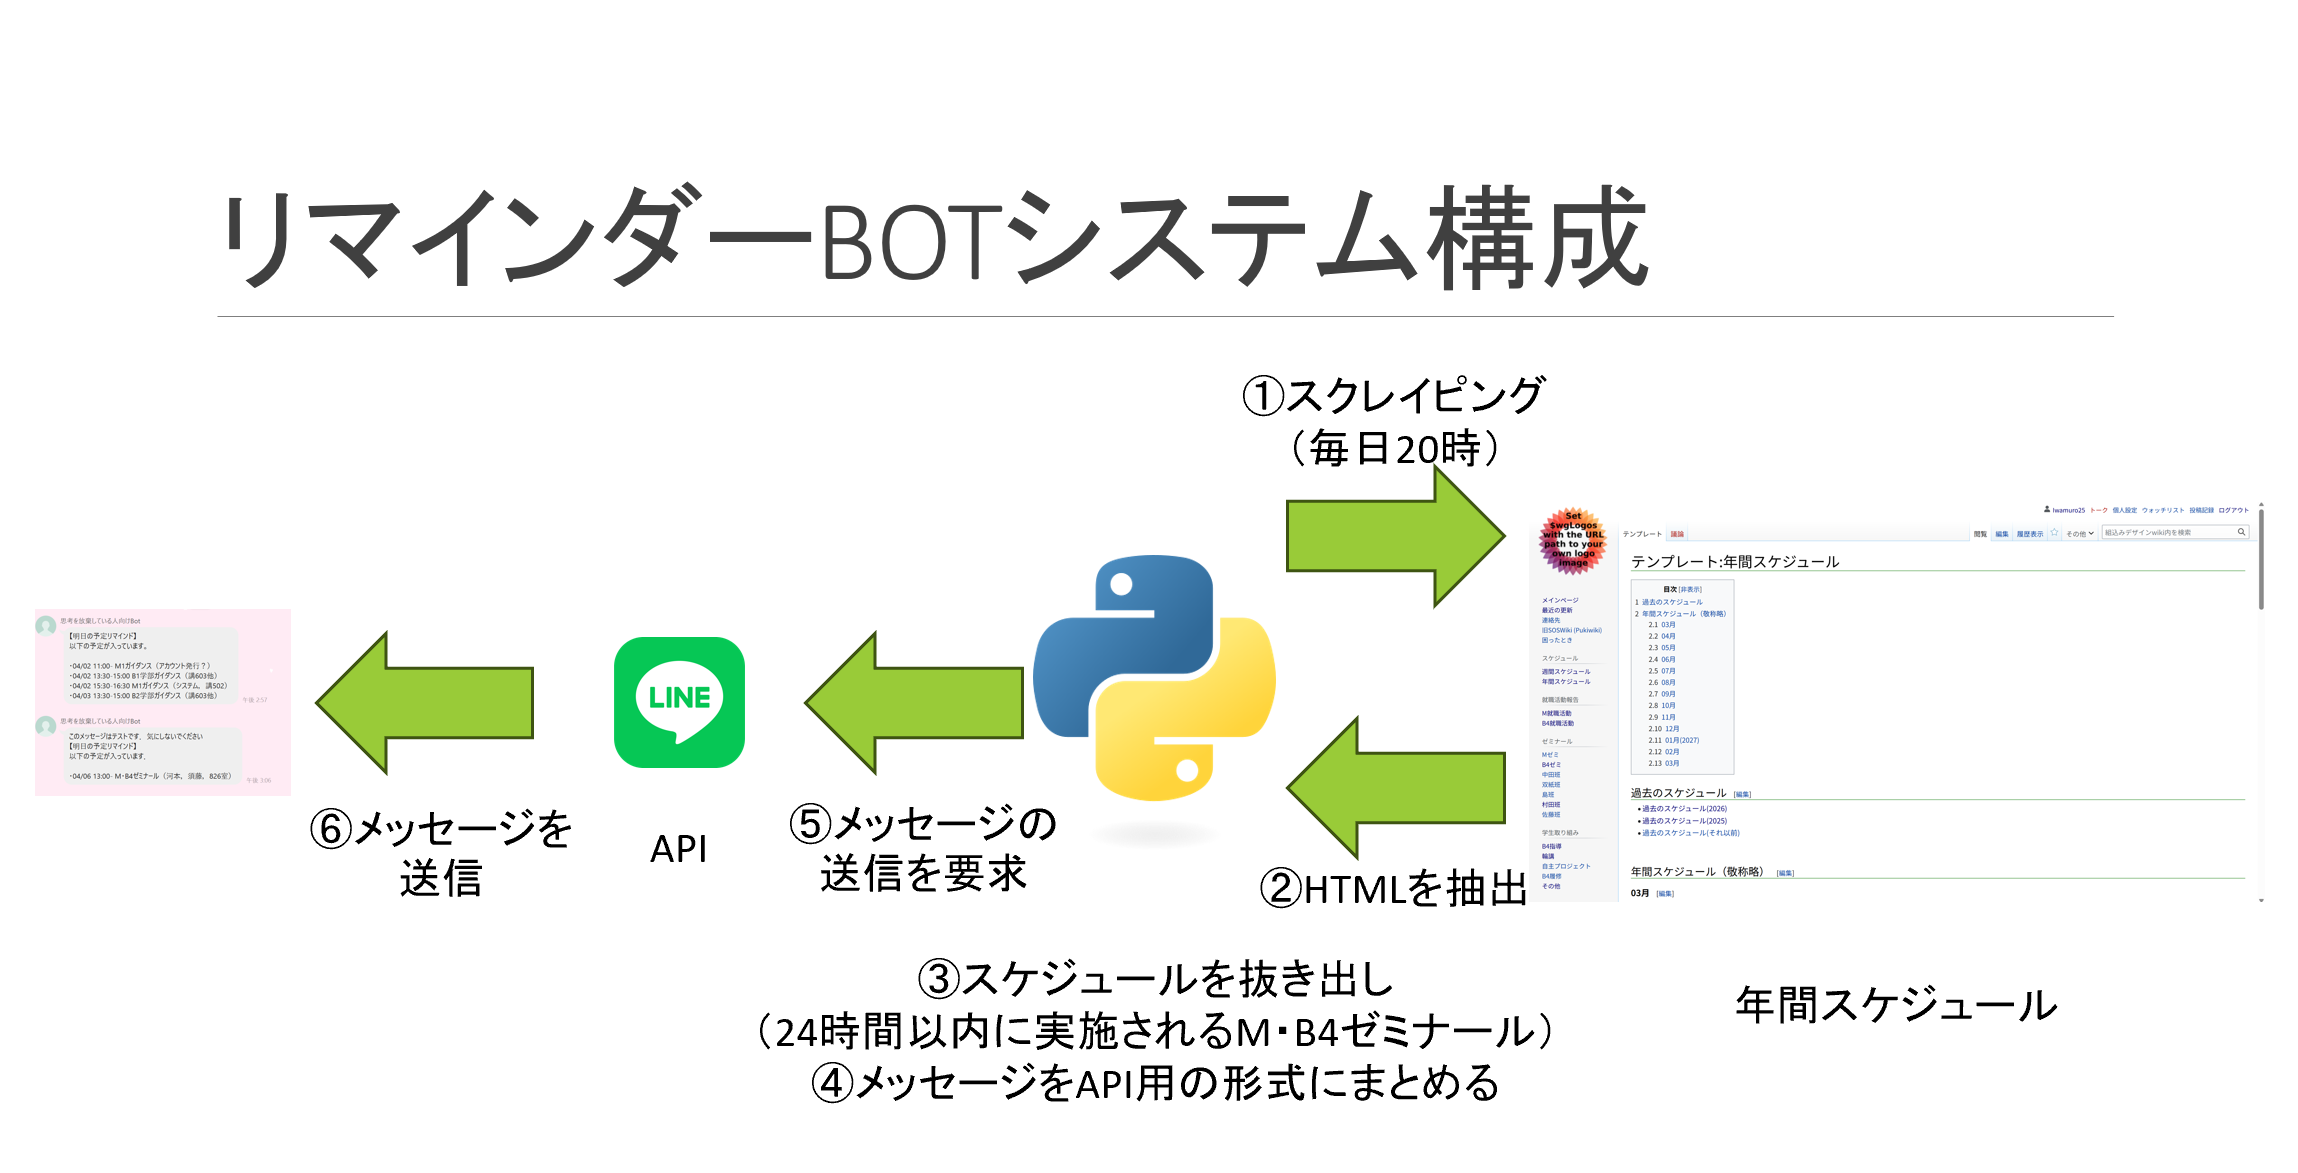
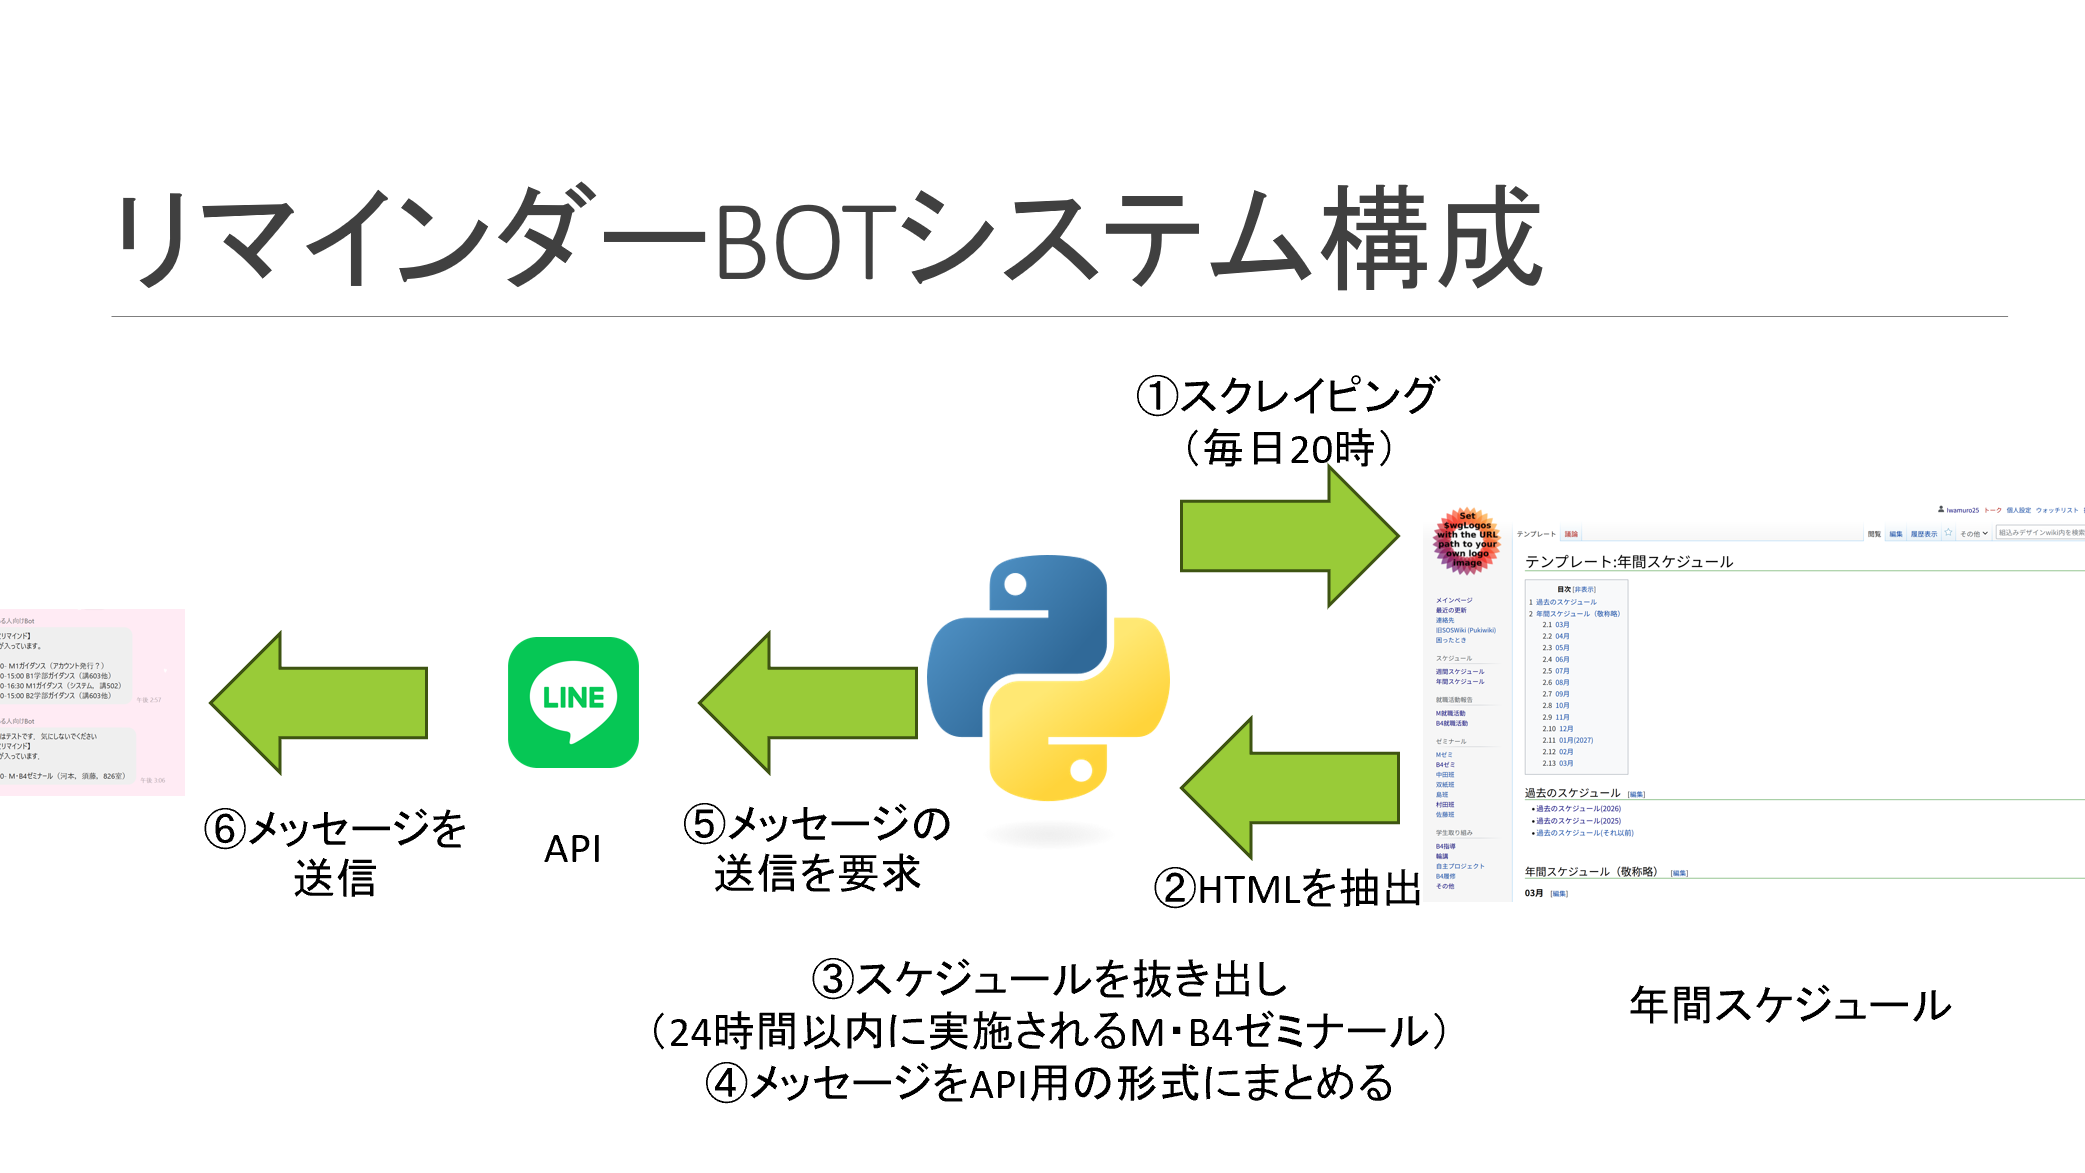
add new image which adjust aspect retio

diff --git a/src/data/siteContent.js b/src/data/siteContent.js
@@ -11,7 +11,7 @@ export const site = {
   hero: {
     eyebrow: 'FRONTEND ENGINEER / ALGORITHM DESIGNER',
     name: '岩室 怜弥',
-    lead: '開発，制作物すべてで心地よい体験を',
+    lead: '開発から制作物すべてで心地よい体験を',
     description: [
       'フロントエンドとアルゴリズム設計で，',
       '様々な課題を解決する体験をつくります．',
@@ -50,7 +50,7 @@ export const projects = [
     title: 'PDF Dark Mode',
     intro: 'PDFを，見やすく美しく',
     description: 'PDFの文字・画像・グラフを判別し，閲覧体験を崩さずダークモードへ変換するChrome拡張機能．',
-    image: '/images/PDFdark0.png',
+    image: '/images/PDFdark.png',
     tags: ['Chrome拡張機能', '画像処理', '最適化アルゴリズム'],
     href: 'https://chromewebstore.google.com/detail/invert-pdf-viewer/klndmcomjnjmcappeiibgklmlhdcihhe?hl=ja',
   },
@@ -58,8 +58,8 @@ export const projects = [
     id: '02',
     title: 'ごみ分別ゲーム',
     intro: '楽しく，学べぶごみ分別',
-    description: '株式会社コーヨー様とごみ問題とリサイクルについて，発信するために作成したゲーム．大学祭では，こどもたちから大好評!!',
-    image: '/images/Ninoshima1.png',
+    description: '株式会社コーヨー様とごみ問題とリサイクルについて，発信するために作成したゲーム．大学祭では，こどもに大人気!!',
+    image: '/images/BunbetuGame.png',
     tags: ['React', 'ウェブデザイン', 'ゲーム設計', 'ごみ問題'],
     href: '',
   },
@@ -68,7 +68,7 @@ export const projects = [
     title: '似島歴史ガイド',
     intro: '似島の記憶を，いつでも体験に',
     description: '広島の歴史では，失われた命が数えられます．一方で，救われた命も多くあります．検疫所によって，多くの命を救った似島の歴史を伝え，観光ガイドを補助するサイトを現地ガイドの方々と再構成しました．',
-    image: '/images/Ninoshima1.png',
+    image: '/images/Ninoshima.png',
     tags: ['ウェブデザイン', '地図', 'ガイド補助'],
     href: 'https://hiroshima-cu.ninoshima.org/index.html',
   },

diff --git a/src/styles/work.css b/src/styles/work.css
@@ -89,6 +89,7 @@
 .project-feature {
   min-height:410px;
   height: 70vh;
+  max-height: 620px;
   border:1px solid rgba(137,155,226,.32);
   border-radius:14px;
   overflow:hidden;
